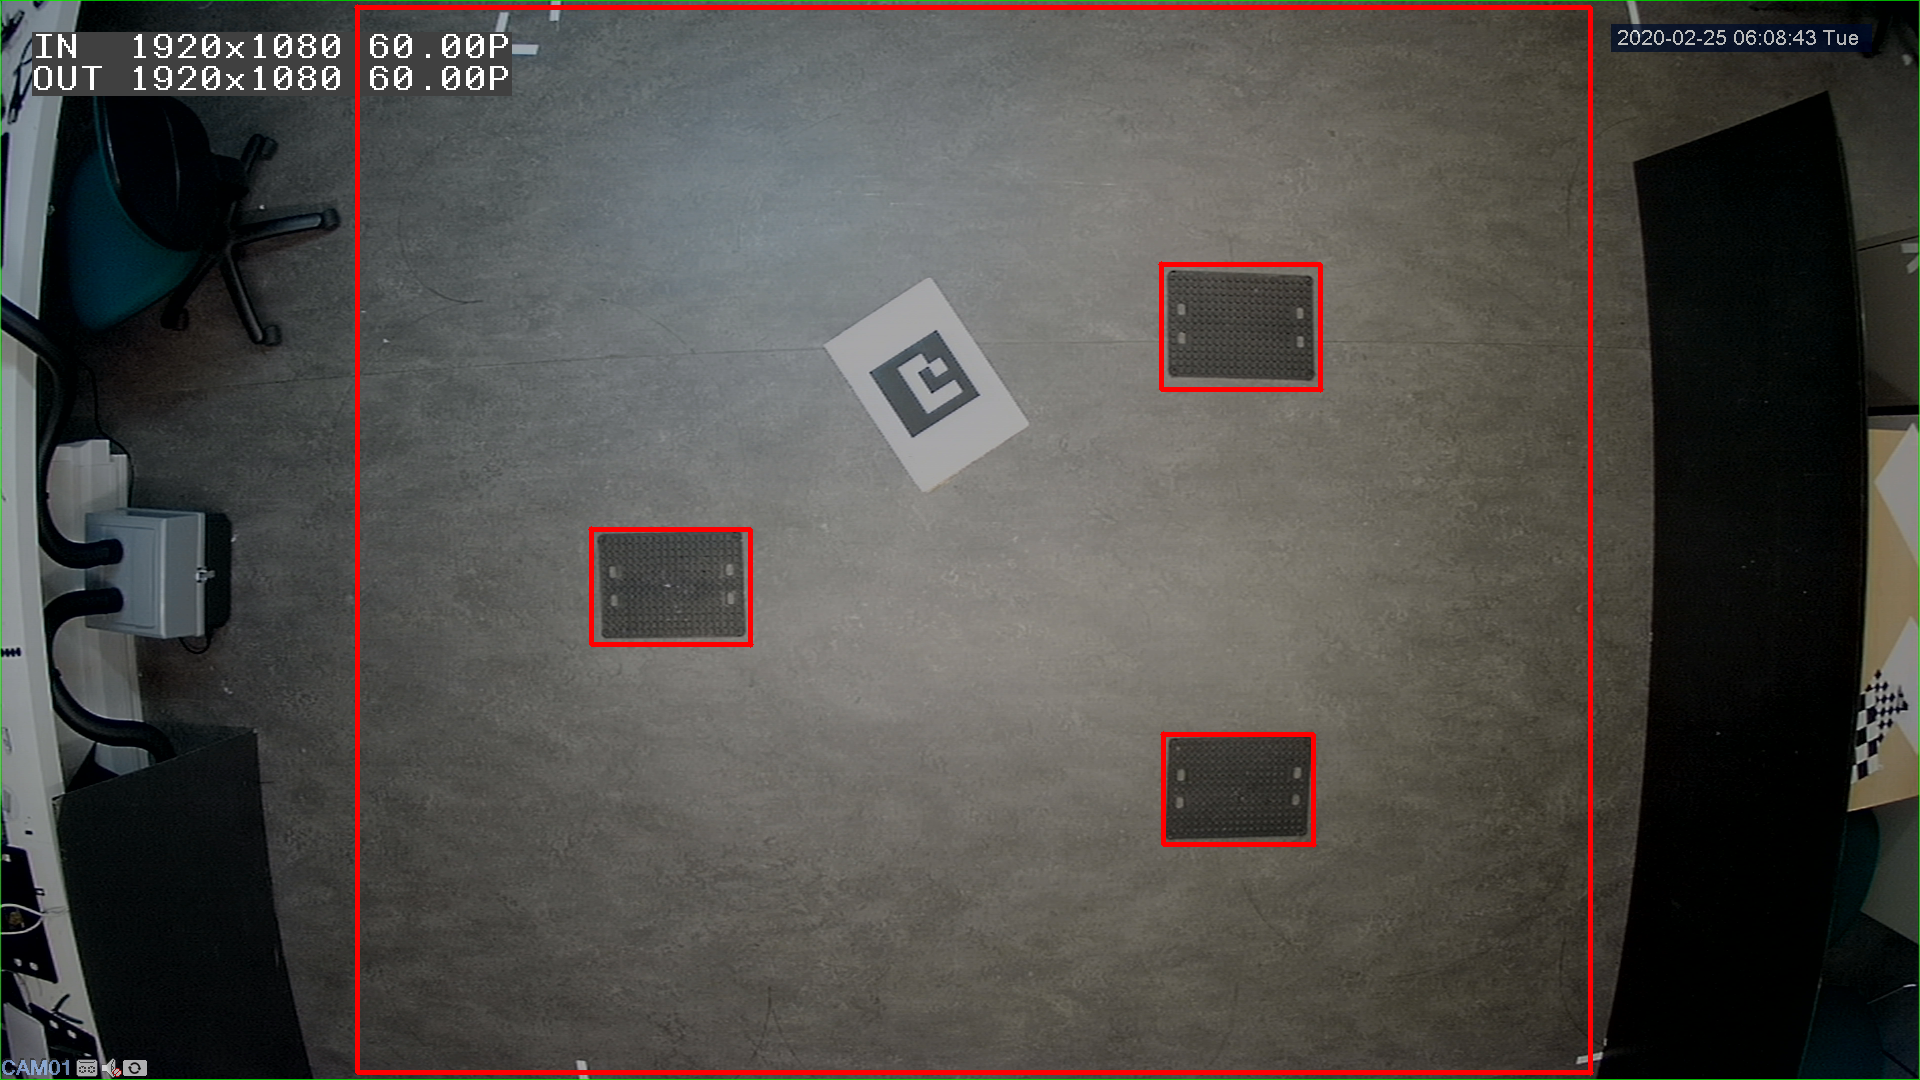
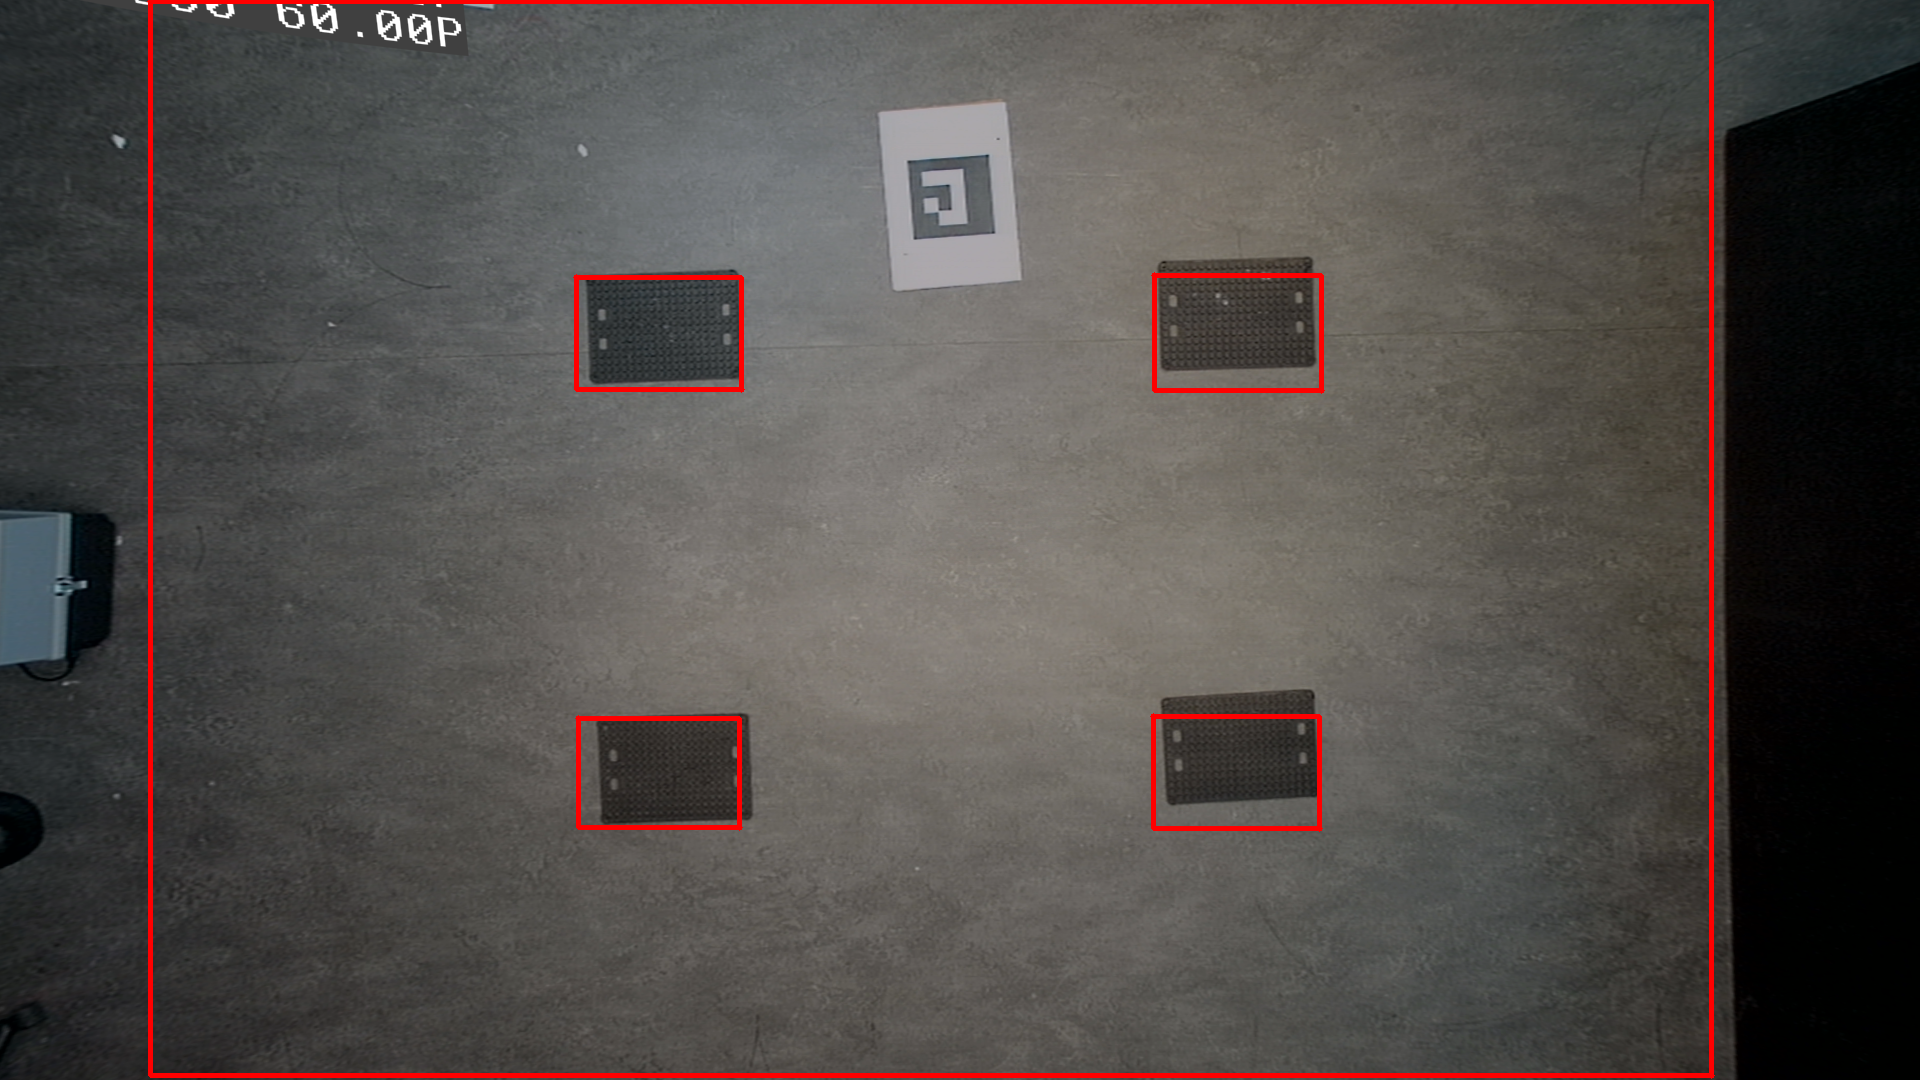
changed obstacle map and grid_size/robot_radius for demo3

diff --git a/server/vision/visualizer.py b/server/vision/visualizer.py
@@ -36,7 +36,7 @@ class Visualizer:
                     ox.append(point0[0] + base - 1)
             for pt1, pt2 in self.obsts.values():
                 drawRect(pt1, pt2)
-            grid_size, robot_radius = 10.0, 105.0
+            grid_size, robot_radius = 20.0, 111.0
             self.a_star = AStarPlanner(ox, oy, grid_size, robot_radius, True)
             rx, ry = self.a_star.planning(int(np.around(sx)), int(np.around(sy)), gx, gy)
             rx, ry = rx[::-1], ry[::-1]

diff --git a/server/pathfinding/planner.py b/server/pathfinding/planner.py
@@ -32,7 +32,7 @@ class AStarPlanner:
             self.calc_obstacle_map(ox, oy)
         else:
             dirname = os.path.abspath(__file__ + "/..")
-            saved = pickle.load(open(os.path.join(dirname, 'saved/room0' + '.p'), "rb"))
+            saved = pickle.load(open(os.path.join(dirname, 'saved/room0_grid' + '.p'), "rb"))
             self.obmap = saved[0]
             self.minx, self.miny = saved[1] ,saved[2]
             self.maxx, self.maxy = saved[3], saved[4]

diff --git a/server/vision/camera.py b/server/vision/camera.py
@@ -107,7 +107,7 @@ class Camera:
         for _ in range(5):
             frame_captured, frame = cap.read()
         if frame_captured:
-            return frame
+            return cv2.undistort(frame, self.mtx, self.dist)
         else:
             return np.nan
 

diff --git a/server/vision/tests/demo3/LOG.md b/server/vision/tests/demo3/LOG.md
@@ -1,3 +1,4 @@
+RAW:
 floor area 280x360cm (not whole frame, left and right was tables)
 so 1080x(some dim) px
 
@@ -21,6 +22,15 @@ test2:
 \[87.474 89.17  90.    87.436 88.34  90.    87.436 89.145 90.   \] avg = 88.77784402717273
 pattern left to right
 
+PROCESSED:
+dist
+106.156px/25cm   var=2.575, std=1.605 
+4.246px/cm ~ 1.605/4.246 = 0.378cm error / every 25cm
 
+deg
+89.017 var=0.977 std=0.988
+expect about 2 degrees of difference at most
+
+reprojection error: 9.79px, quite high, checkerboard not rigid/big enough, camera distortion quite bad
 
 
